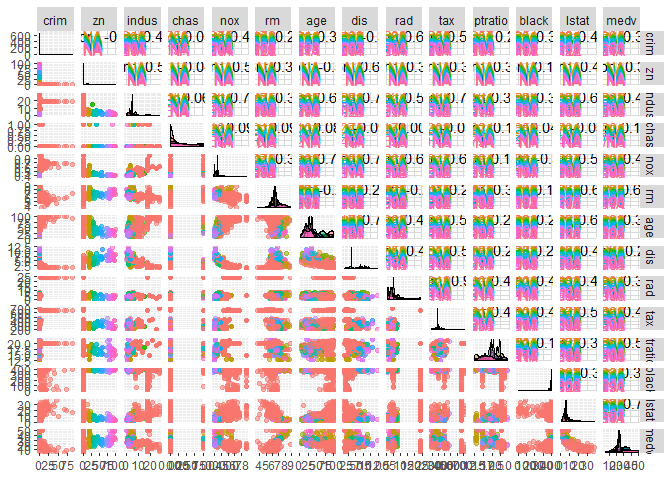
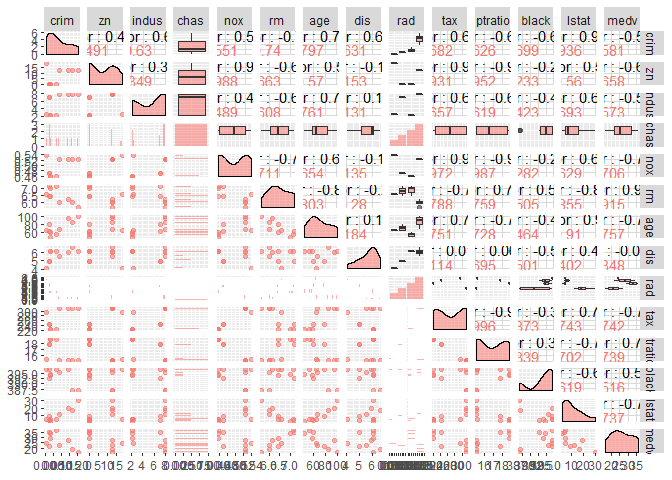
HW2 ver2

diff --git a/DataMining/DataMining_HW/HW2.md b/DataMining/DataMining_HW/HW2.md
@@ -7,24 +7,11 @@ ceemooni
 library(tidyverse)
 ```
 
-    ## -- Attaching packages -------------------------- tidyverse 1.2.1 --
-
-    ## √ ggplot2 3.1.0     √ purrr   0.2.4
-    ## √ tibble  1.4.2     √ dplyr   0.7.8
-    ## √ tidyr   0.8.0     √ stringr 1.2.0
-    ## √ readr   1.1.1     √ forcats 0.3.0
-
-    ## -- Conflicts ----------------------------- tidyverse_conflicts() --
-    ## x dplyr::filter() masks stats::filter()
-    ## x dplyr::lag()    masks stats::lag()
-
 Ex.9
 
-``` r
-?ISLR::Auto
-```
+This exercise involves the Auto data set studied in the lab. Make sure that the missing values have been removed from the data.
 
-    ## starting httpd help server ... done
+1.  Which of the predictors are quantitative, and which are qualitative?
 
 ``` r
 Auto2 <- na.omit(ISLR::Auto)
@@ -45,13 +32,23 @@ str(Auto2)
 
 ``` r
 Auto2$origin <- as.factor(Auto2$origin)
+```
 
+> Auto 데이터는 7개 quantitative predictors, 2개 qualitative predictors에 대해 392개 관측치로 이뤄진 데이터다. origin변수는 데이터 로딩 시number variable로 인식됐지만 자동차 생산 국가를 의미하는 categorical variable이므로 qualitative로 처리한다.
+
+1.  What is the range of each quantitative predictor? You can answer this using the range() function.
+
+``` r
 sapply(Auto2[,1:7], range)
 ```
 
     ##       mpg cylinders displacement horsepower weight acceleration year
     ## [1,]  9.0         3           68         46   1613          8.0   70
     ## [2,] 46.6         8          455        230   5140         24.8   82
+
+> Cylinders 변수의 설명에 의하면 4 이상 8이하 범위의 값만 가능한데, 데이터에서 최소값이 3이므로 outliers가 존재하는 것 같다. Mpg, displacement, horsepower, weight 등의 변수는 값의 범위가 상당히 큰 것으로 보아 여러 차종이 섞인 데이터인 것 같다. 따라서, 차종에 따라 데이터를 구분하여 분석할 수 있으면 좋을 것 같다.
+
+1.  What is the mean and standard deviation of each quantitative predictor?
 
 ``` r
 sapply(Auto2[,1:7], mean)
@@ -70,6 +67,10 @@ sapply(Auto2[,1:7], sd)
     ##     7.805007     1.705783   104.644004    38.491160   849.402560 
     ## acceleration         year 
     ##     2.758864     3.683737
+
+> Standard deviaiton이 비교적 큰 변수는 Displacement, horsepower 등이 있고, 작은 변수는 year이다.
+
+1.  Now remove the 10th through 85th observations. What is the range, mean, and standard deviation of each predictor in the subset of the data that remains?
 
 ``` r
 Auto3 <- Auto2[-(10:85), ]
@@ -98,29 +99,26 @@ sapply(Auto3[,1:7], sd)
     ## acceleration         year 
     ##     2.693721     3.106217
 
+> 76개 관측치를 데이터에서 제거하여도 변수별 range나 mean, standard deviaition은 크게 변하지 않았다. 데이터가 order없이 고르게 분포한 것 같다.
+
+1.  Using the full data set, investigate the predictors graphically, using scatterplots or other tools of your choice. Create some plots highlighting the relationships among the predictors. Comment on your findings.
+
 ``` r
 GGally::ggpairs(Auto2[,1:8], aes(color=origin, alpha=0.4))
 ```
 
-    ## `stat_bin()` using `bins = 30`. Pick better value with `binwidth`.
-    ## `stat_bin()` using `bins = 30`. Pick better value with `binwidth`.
-    ## `stat_bin()` using `bins = 30`. Pick better value with `binwidth`.
-    ## `stat_bin()` using `bins = 30`. Pick better value with `binwidth`.
-    ## `stat_bin()` using `bins = 30`. Pick better value with `binwidth`.
-    ## `stat_bin()` using `bins = 30`. Pick better value with `binwidth`.
-    ## `stat_bin()` using `bins = 30`. Pick better value with `binwidth`.
+![](HW2_files/figure-markdown_github/unnamed-chunk-6-1.png)
 
-![](HW2_files/figure-markdown_github/unnamed-chunk-2-1.png)
+> Mpg 변수는 cylinders(-0.78), displacement(-0.81), horsepower(-0.78), weight(-0.83)와 음의 상관관계, cylinders 변수는 displacement(0.95), horsepower(0.84), weight(0.90)와 양의 상관관계, displacement 변수는 horsepower(0.90), weight변수(0.93)과 양의 상관관계, horsepower 변수는 weight(0.87)와 양의 상관관계가 있다. 서로 상관관계가 높은 변수가 많기 때문에 다중공선성을 의심해볼 필요가 있다. 또한, Categorical 변수인 Origin은 색깔을 통해 구분했는데, 각 변수의 density plot을 살펴보면 mpg, cylinders, displacement, weight 등에서 생산 국가별 차이가 두드러진다.
+
+1.  Suppose that we wish to predict gas mileage (mpg) on the basis of the other variables. Do your plots suggest that any of the other variables might be useful in predicting mpg? Justify your answer.
+
+> 위 그래프에서 mpg변수는 cylinders, displacement, horsepower, weight와 음의 상관관계를 가진 것으로 보인다. 따라서 이 변수들 중에서 예측변수를 채택하여 gas mileage 값을 예측할 수 있을 것 같다. 그런데 이 세 변수들 또한 서로 높은 상관관계를 보이므로 예측모형을 결정할 때 다중공선성을 주의하여 예측변수를 선택해야 한다.
 
 Ex.10
 -----
 
-``` r
-?MASS::BostonBoston
-```
-
-    ## No documentation for 'BostonBoston' in specified packages and libraries:
-    ## you could try '??BostonBoston'
+1.  To begin, load in the Boston data set. The Boston data set is part of the MASS library in R. How many rows are in this data set? How many columns? What do the rows and columns represent?
 
 ``` r
 Boston <- MASS::Boston
@@ -133,30 +131,46 @@ nrow(Boston); ncol(Boston)
     ## [1] 14
 
 ``` r
-GGally::ggpairs(Boston, aes(color=factor(zn), alpha=0.4))
+Boston <- Boston %>% mutate(chas=factor(chas), rad=factor(rad))
 ```
 
-![](HW2_files/figure-markdown_github/unnamed-chunk-3-1.png)
+> Boston 데이터는 14개 quantitative predictors변수에 대해 506개 관측치로 이뤄진 데이터다. 506개의 관측치는 Boston지역 내 각 suburb에 대한 것이다. Chas와 rad는 categorical 변수로 처리했다.
+
+1.  Make some pairwise scatterplots of the predictors (columns) in this data set. Describe your findings.
 
 ``` r
-Boston %>% gather(key=variable, value=value, -crim) %>% 
+GGally::ggpairs(Boston, aes(color=factor(chas), alpha=0.4, 
+                            params=list(corSize=3)))
+```
+
+![](HW2_files/figure-markdown_github/unnamed-chunk-8-1.png)
+
+> Correlation coefficient의 절댓값이 0.8보다 큰 경우는 없으며, 0.7보다 큰 경우는 다음과 같다. Indus는 nox(0.76), tax(0.72)와 양의 상관관계를 보이며, dis(-0.71)와 음의 상관관계를 보인다. Nox는 age(0.73)와 양의 상관관계, dis(-0.77)와 음의 상관관계를 보인다. Age는 dis(-0.75)와 음의 상관관계를 보이며, lstat은 medv(-0.74)와 음의 상관관계를 보인다. 이러한 상관관계는 모두 산점도 행렬로부터 확인 가능하다. 산점도로부터 몇 개의 outlier가 존재함을 확인할 수 있다.
+
+1.  Are any of the predictors associated with per capita crime rate? If so, explain the relationship.
+
+``` r
+Boston[,-c(4,9)] %>% gather(key=variable, value=value, -crim) %>% 
   ggplot() + 
   geom_point(aes(x=value, y=crim), color="orange", alpha=0.5) + 
   facet_wrap(. ~ variable, scales = "free", nrow=3) + theme_bw()
 ```
 
-![](HW2_files/figure-markdown_github/unnamed-chunk-3-2.png)
+![](HW2_files/figure-markdown_github/unnamed-chunk-9-1.png)
 
 ``` r
-cor(Boston, use="complete.obs")[1, ]
+crim_cor <- Boston %>% select(-chas, -rad) %>% cor(use="complete.obs")
+crim_cor[1,]
 ```
 
-    ##        crim          zn       indus        chas         nox          rm 
-    ##  1.00000000 -0.20046922  0.40658341 -0.05589158  0.42097171 -0.21924670 
-    ##         age         dis         rad         tax     ptratio       black 
-    ##  0.35273425 -0.37967009  0.62550515  0.58276431  0.28994558 -0.38506394 
-    ##       lstat        medv 
-    ##  0.45562148 -0.38830461
+    ##       crim         zn      indus        nox         rm        age 
+    ##  1.0000000 -0.2004692  0.4065834  0.4209717 -0.2192467  0.3527343 
+    ##        dis        tax    ptratio      black      lstat       medv 
+    ## -0.3796701  0.5827643  0.2899456 -0.3850639  0.4556215 -0.3883046
+
+> Crim 값이 높은 지역은 indus, ptratio, tax값이 높게 치중됐고, zn은 낮다. 또한 age가 높은 지역, dis가 낮은 지역 중에 crim이 높은 지역이 있는 것으로 보인다.
+
+1.  Do any of the suburbs of Boston appear to have particularly high crime rates? Tax rates? Pupil-teacher ratios? Comment on the range of each predictor.
 
 ``` r
 p1 <- Boston %>% mutate(id=1:nrow(Boston)) %>% 
@@ -168,7 +182,11 @@ p3 <- Boston %>% mutate(id=1:nrow(Boston)) %>%
 gridExtra::grid.arrange(p1, p2, p3, ncol=3)
 ```
 
-![](HW2_files/figure-markdown_github/unnamed-chunk-3-3.png)
+![](HW2_files/figure-markdown_github/unnamed-chunk-10-1.png)
+
+> 350번째 이후 suburb들의 crim값 및 tax값이 높은 것으로 보인다. Ptratio는 지역별로 편차가 크게 존재한다고 보기 어렵다.
+
+1.  How many of the suburbs in this data set bound the Charles river?
 
 ``` r
 table(Boston$chas)
@@ -178,11 +196,19 @@ table(Boston$chas)
     ##   0   1 
     ## 471  35
 
+> 506개 sububs 중 35개가 Charlse river에 둘러싸여 있다.
+
+1.  What is the median pupil-teacher ratio among the towns in this data set?
+
 ``` r
 median(Boston$ptratio)
 ```
 
     ## [1] 19.05
+
+> Pupil teacher ratio의 median은 19.05이다.
+
+1.  Which suburb of Boston has lowest median value of owneroccupied homes? What are the values of the other predictors for that suburb, and how do those values compare to the overall ranges for those predictors? Comment on your findings.
 
 ``` r
 Boston %>% filter(medv==min(medv))      
@@ -196,7 +222,7 @@ Boston %>% filter(medv==min(medv))
     ## 2 22.98    5
 
 ``` r
-Boston %>% gather(key=variable, value=value, -medv) %>% 
+Boston[,-c(4,9)] %>% gather(key=variable, value=value, -medv) %>% 
   ggplot() + 
   geom_point(aes(x=medv, y=value, shape=as.factor(medv==5), color=as.factor(medv==5)), alpha=0.7) + 
   facet_wrap(. ~ variable, scales = "free", nrow=3) + 
@@ -204,7 +230,11 @@ Boston %>% gather(key=variable, value=value, -medv) %>%
   scale_color_manual(values=c("pink", "red"))
 ```
 
-![](HW2_files/figure-markdown_github/unnamed-chunk-3-4.png)
+![](HW2_files/figure-markdown_github/unnamed-chunk-13-1.png)
+
+> Median value of owneroccupied homes(medv)이 가장 작은 지역은 두 곳이며, 각각 값이 5이다. 해당 지역의 특징을 살펴보기 위해 다른 변수들과 medv간 산점도를 그린 후 두 지역에 대한 점을 진하게 표시했다. 해당 지역은 age, black, tax가 다른 지역에 비해 높으며 dis, zn 값이 낮다.
+
+1.  In this data set, how many of the suburbs average more than seven rooms per dwelling? More than eight rooms per dwelling? Comment on the suburbs that average more than eight rooms per dwelling.
 
 ``` r
 table(as.factor(Boston$rm > 7))
@@ -223,15 +253,18 @@ table(as.factor(Boston$rm > 8))
     ##   493    13
 
 ``` r
-rbind(sapply(Boston[Boston$rm>8,], mean), sapply(Boston, median))
+rbind(sapply(Boston[Boston$rm>8,-c(4,9)], mean), 
+      sapply(Boston[,-c(4,9)], median))
 ```
 
-    ##           crim       zn    indus      chas       nox       rm      age
-    ## [1,] 0.7187954 13.61538 7.078462 0.1538462 0.5392385 8.348538 71.53846
-    ## [2,] 0.2565100  0.00000 9.690000 0.0000000 0.5380000 6.208500 77.50000
-    ##           dis      rad      tax  ptratio    black lstat medv
-    ## [1,] 3.430192 7.461538 325.0769 16.36154 385.2108  4.31 44.2
-    ## [2,] 3.207450 5.000000 330.0000 19.05000 391.4400 11.36 21.2
+    ##           crim       zn    indus       nox       rm      age      dis
+    ## [1,] 0.7187954 13.61538 7.078462 0.5392385 8.348538 71.53846 3.430192
+    ## [2,] 0.2565100  0.00000 9.690000 0.5380000 6.208500 77.50000 3.207450
+    ##           tax  ptratio    black lstat medv
+    ## [1,] 325.0769 16.36154 385.2108  4.31 44.2
+    ## [2,] 330.0000 19.05000 391.4400 11.36 21.2
+
+> 평균 방 개수가 7개보다 많은 지역은 64개, 8개보다 많은 지역은 13개이다.
 
 ``` r
 Boston %>% gather(key=variable, value=value, -rm) %>% 
@@ -242,4 +275,6 @@ Boston %>% gather(key=variable, value=value, -rm) %>%
   scale_color_manual(values=c("pink", "red"))
 ```
 
-![](HW2_files/figure-markdown_github/unnamed-chunk-3-5.png)
+![](HW2_files/figure-markdown_github/unnamed-chunk-15-1.png)
+
+> 평균 방 개수가 8개보다 많은 지역의 특징을 살펴보기 위해 다른 변수들과 rm간 산점도를 그린 후 해당 13개 지역의 점을 진하게 표시했다. 이 지역들은 대부분 Black, medv가 높고 crim, lstat이 작다.
